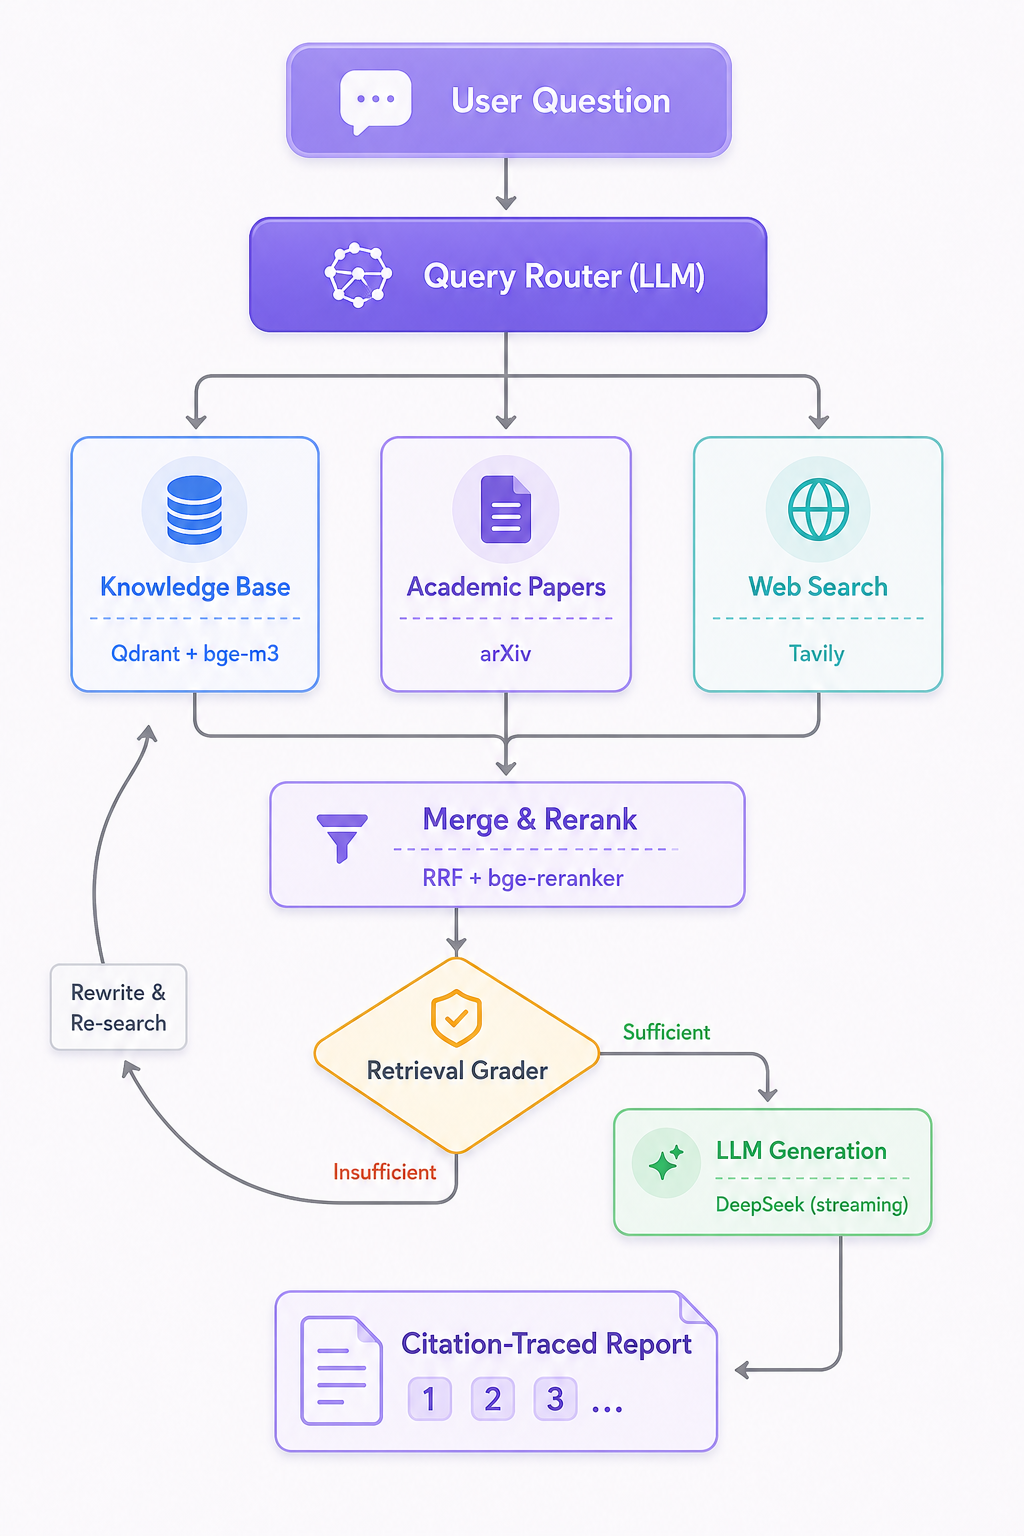
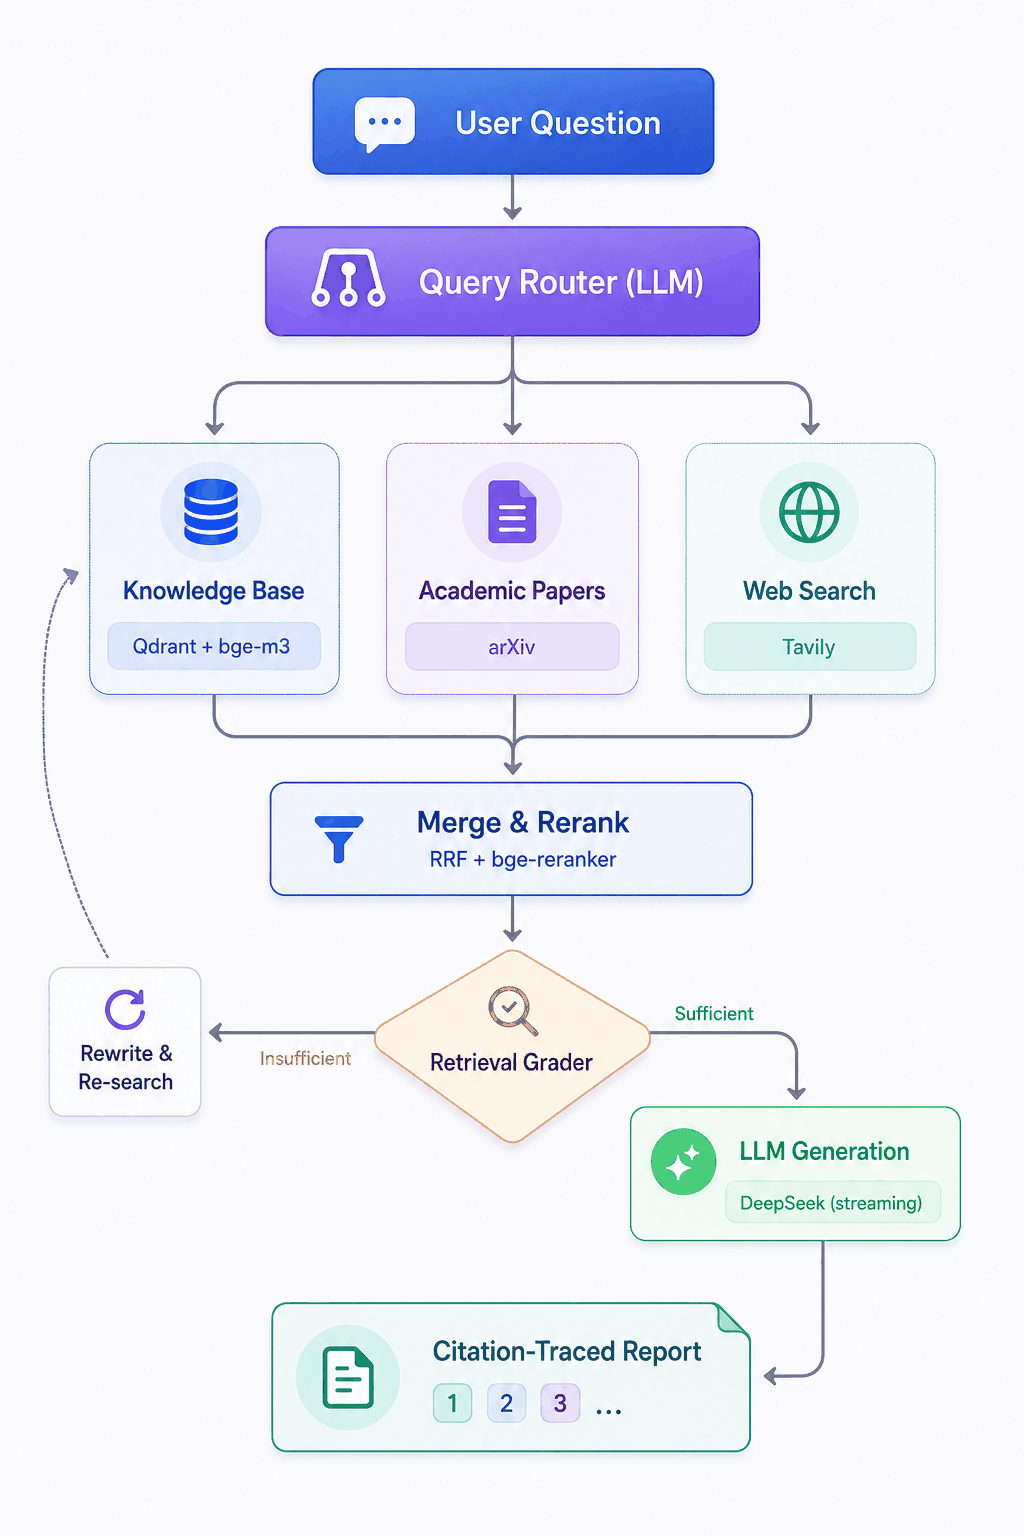
docs: 架构图压缩至471KB（256色量化）+ README 限宽55%居中显示

diff --git a/README.md b/README.md
@@ -18,7 +18,9 @@
 
 ## 📐 Architecture
 
-![Architecture](docs/Diagram.png)
+<div align="center">
+  <img src="docs/Diagram.png" width="55%" alt="Architecture" />
+</div>
 
 ```
 User Question → Query Router (chat | knowledge)

diff --git a/README.zh-CN.md b/README.zh-CN.md
@@ -18,7 +18,9 @@
 
 ## 📐 架构
 
-![架构图](docs/Diagram.png)
+<div align="center">
+  <img src="docs/Diagram.png" width="55%" alt="架构图" />
+</div>
 
 ```
 用户提问 → 意图路由（闲聊 | 知识问题）
